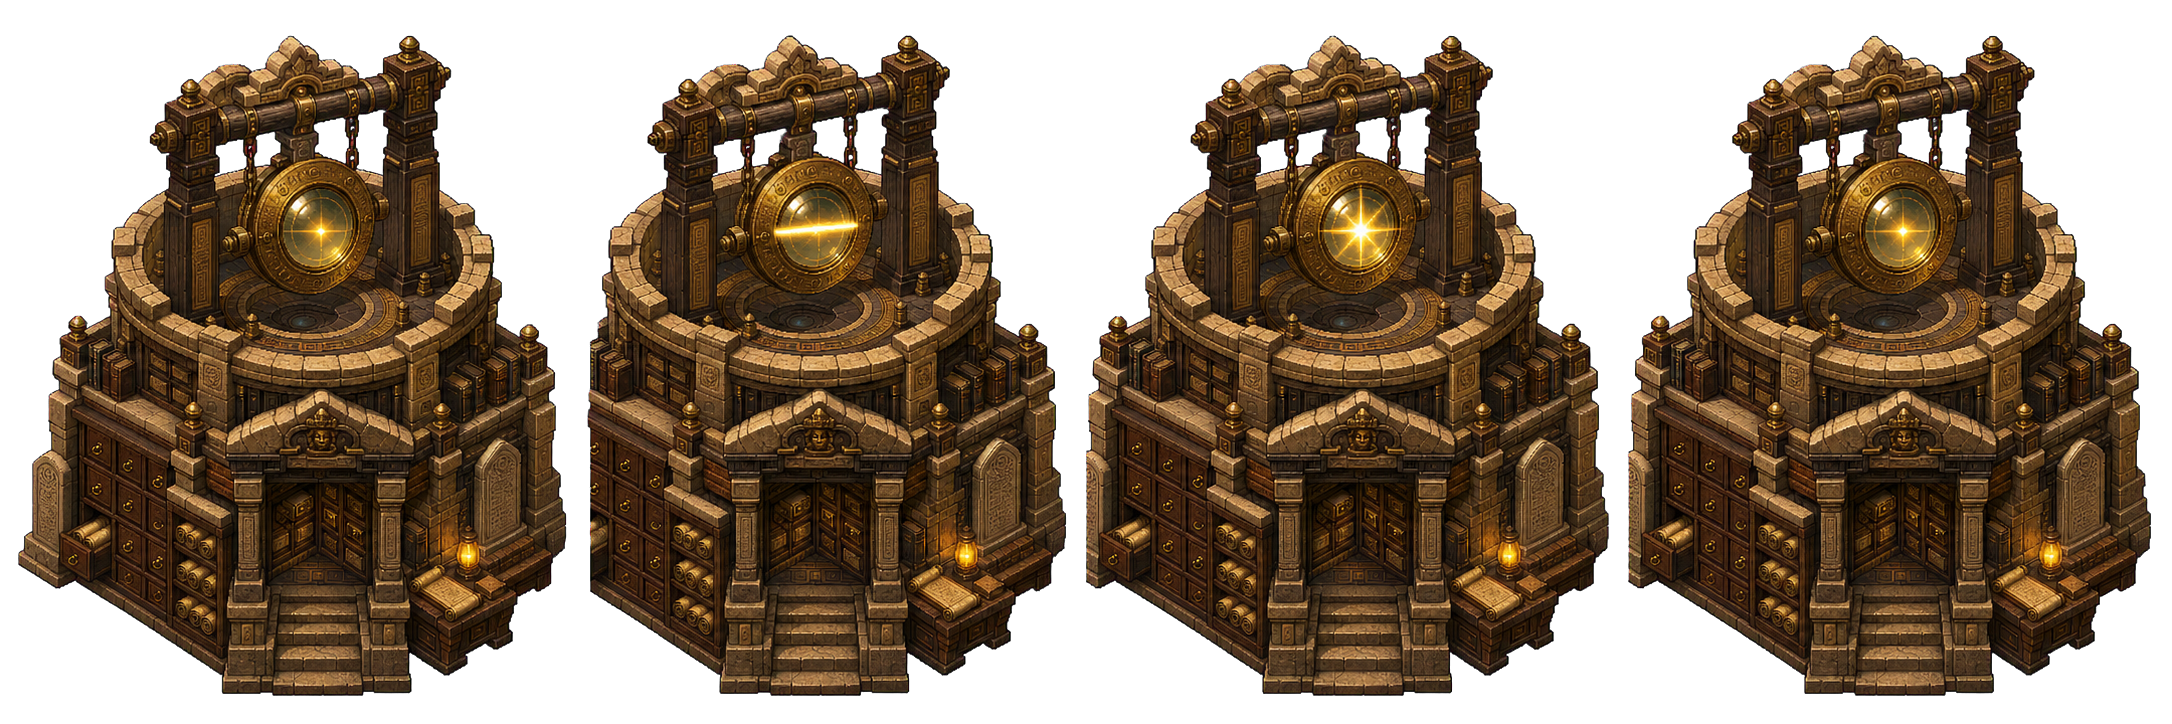
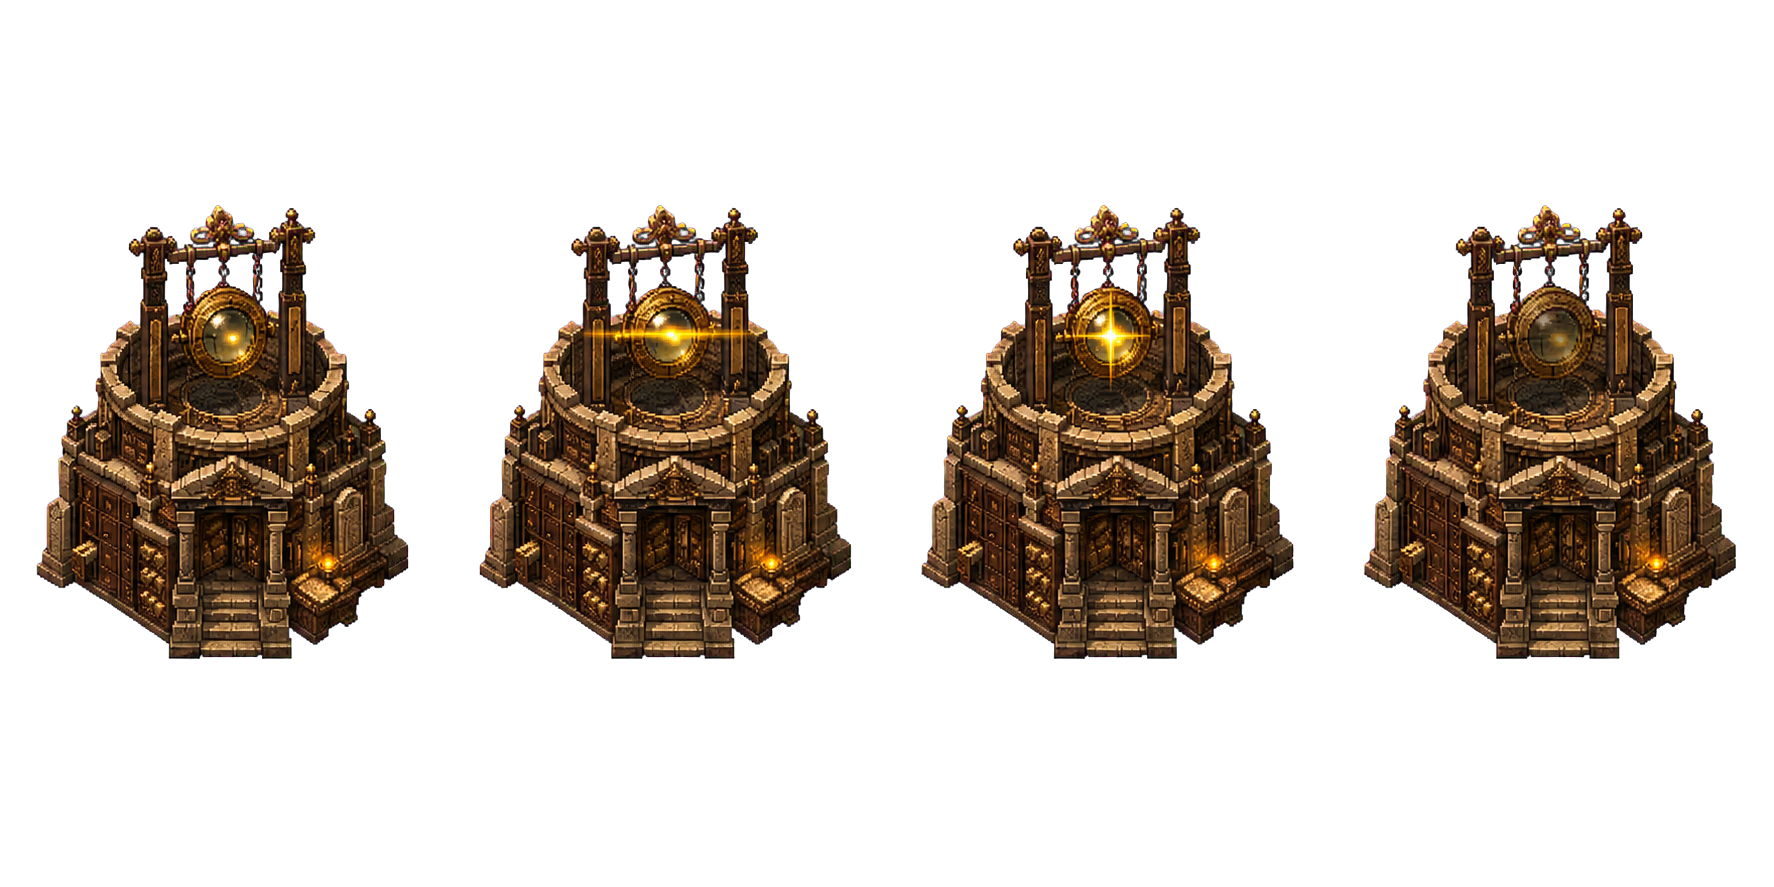
fix: stabilize landmark frames and movement input

diff --git a/game.js b/game.js
@@ -1745,6 +1745,18 @@ function updateSoundButton() {
   soundButton.textContent = soundEnabled ? "♫" : "×";
 }
 
+function clearPressedKeys() {
+  keys.clear();
+  player.isMoving = false;
+}
+
+window.addEventListener("blur", clearPressedKeys);
+document.addEventListener("visibilitychange", () => {
+  if (document.hidden) {
+    clearPressedKeys();
+  }
+});
+
 window.addEventListener("keydown", (event) => {
   if (["ArrowUp", "ArrowDown", "ArrowLeft", "ArrowRight", " "].includes(event.key)) {
     event.preventDefault();
@@ -1934,11 +1946,31 @@ function loadEnvironmentSprites() {
       factionStandard: loadSprite("assets/landmarks/faction-standard.png"),
       restorationEngine: loadSprite("assets/landmarks/restoration-engine.png"),
     },
-    landmarkAnimations: {
-      stormShelterBeacon: loadSprite("assets/landmarks/storm-shelter-beacon-animated.png"),
-      archiveLensTower: loadSprite("assets/landmarks/archive-lens-tower-animated.png"),
-      factionStandard: loadSprite("assets/landmarks/faction-standard-animated.png"),
-      restorationEngine: loadSprite("assets/landmarks/restoration-engine-animated.png"),
+    landmarkAnimationFrames: {
+      stormShelterBeacon: [
+        loadSprite("assets/landmarks/frames/storm-shelter-beacon/01.png"),
+        loadSprite("assets/landmarks/frames/storm-shelter-beacon/02.png"),
+        loadSprite("assets/landmarks/frames/storm-shelter-beacon/03.png"),
+        loadSprite("assets/landmarks/frames/storm-shelter-beacon/04.png"),
+      ],
+      archiveLensTower: [
+        loadSprite("assets/landmarks/frames/archive-lens-tower/01.png"),
+        loadSprite("assets/landmarks/frames/archive-lens-tower/02.png"),
+        loadSprite("assets/landmarks/frames/archive-lens-tower/03.png"),
+        loadSprite("assets/landmarks/frames/archive-lens-tower/04.png"),
+      ],
+      factionStandard: [
+        loadSprite("assets/landmarks/frames/faction-standard/01.png"),
+        loadSprite("assets/landmarks/frames/faction-standard/02.png"),
+        loadSprite("assets/landmarks/frames/faction-standard/03.png"),
+        loadSprite("assets/landmarks/frames/faction-standard/04.png"),
+      ],
+      restorationEngine: [
+        loadSprite("assets/landmarks/frames/restoration-engine/01.png"),
+        loadSprite("assets/landmarks/frames/restoration-engine/02.png"),
+        loadSprite("assets/landmarks/frames/restoration-engine/03.png"),
+        loadSprite("assets/landmarks/frames/restoration-engine/04.png"),
+      ],
     },
     recovery: {
       doiMoiIrrigationStation: loadSprite("assets/recovery/doi-moi-irrigation-station.png"),
@@ -11432,7 +11464,7 @@ function drawZoneLandmark(profile) {
   const presentation = getZonePresentation(profile.levelId);
   const details = profile[presentation];
   const landmark = environmentSprites.landmarks?.[profile.landmark];
-  const animatedLandmark = environmentSprites.landmarkAnimations?.[profile.landmark];
+  const animatedFrames = environmentSprites.landmarkAnimationFrames?.[profile.landmark];
   const { x, y } = profile.landmarkPosition;
   const { width, height } = profile.landmarkSize;
   const pulse = 0.78 + (Math.sin(state.lastTimestamp * 0.003 + x) + 1) * 0.08;
@@ -11453,8 +11485,8 @@ function drawZoneLandmark(profile) {
   ctx.globalCompositeOperation = "source-over";
   ctx.globalAlpha = presentation === "completed" ? 1 : 0.86;
 
-  if (canDrawSprite(animatedLandmark)) {
-    drawZoneLandmarkSpriteFrame(animatedLandmark, x, y, width, height);
+  if (animatedFrames?.every(canDrawSprite)) {
+    drawZoneLandmarkAnimationFrame(animatedFrames, x, y, width, height);
   } else if (canDrawSprite(landmark)) {
     ctx.drawImage(landmark, Math.round(x - width / 2), Math.round(y - height), width, height);
   } else {
@@ -11466,21 +11498,9 @@ function drawZoneLandmark(profile) {
   ctx.restore();
 }
 
-function drawZoneLandmarkSpriteFrame(spriteSheet, x, y, width, height) {
-  const frame = Math.floor(state.lastTimestamp / 180) % 4;
-  const frameWidth = Math.floor(spriteSheet.naturalWidth / 4);
-
-  ctx.drawImage(
-    spriteSheet,
-    frameWidth * frame,
-    0,
-    frameWidth,
-    spriteSheet.naturalHeight,
-    Math.round(x - width / 2),
-    Math.round(y - height),
-    width,
-    height
-  );
+function drawZoneLandmarkAnimationFrame(frames, x, y, width, height) {
+  const frame = frames[Math.floor(state.lastTimestamp / 180) % frames.length];
+  ctx.drawImage(frame, Math.round(x - width / 2), Math.round(y - height), width, height);
 }
 
 function drawZoneProgressScene(profile) {

diff --git a/ASSET_SOURCES.md b/ASSET_SOURCES.md
@@ -46,7 +46,7 @@ This project uses a small subset of free game assets:
   - Used for the four persistent zone landmarks in `assets/landmarks/`: storm shelter beacon, archive lens tower, faction standard, and restoration engine.
 - Original animated zone-landmark sprite strips
   - Created for this project with the built-in image generation workflow, then background-keyed to transparent PNG.
-  - Four-frame strips used by the persistent landmarks in `assets/landmarks/*-animated.png`: lantern/flag, archive lens, flag/brazier, and waterwheel/water animations.
+  - Four-frame strips are normalized to a common bottom-center anchor before the persistent landmarks load their frames from `assets/landmarks/frames/`: lantern/flag, archive lens, flag/brazier, and waterwheel/water animations.
 - Original Đổi Mới irrigation station
   - Created for this project with the built-in image generation workflow, then background-keyed to transparent PNG.
   - Used for the restored rural cooperative scene in `assets/recovery/doi-moi-irrigation-station.png`.
